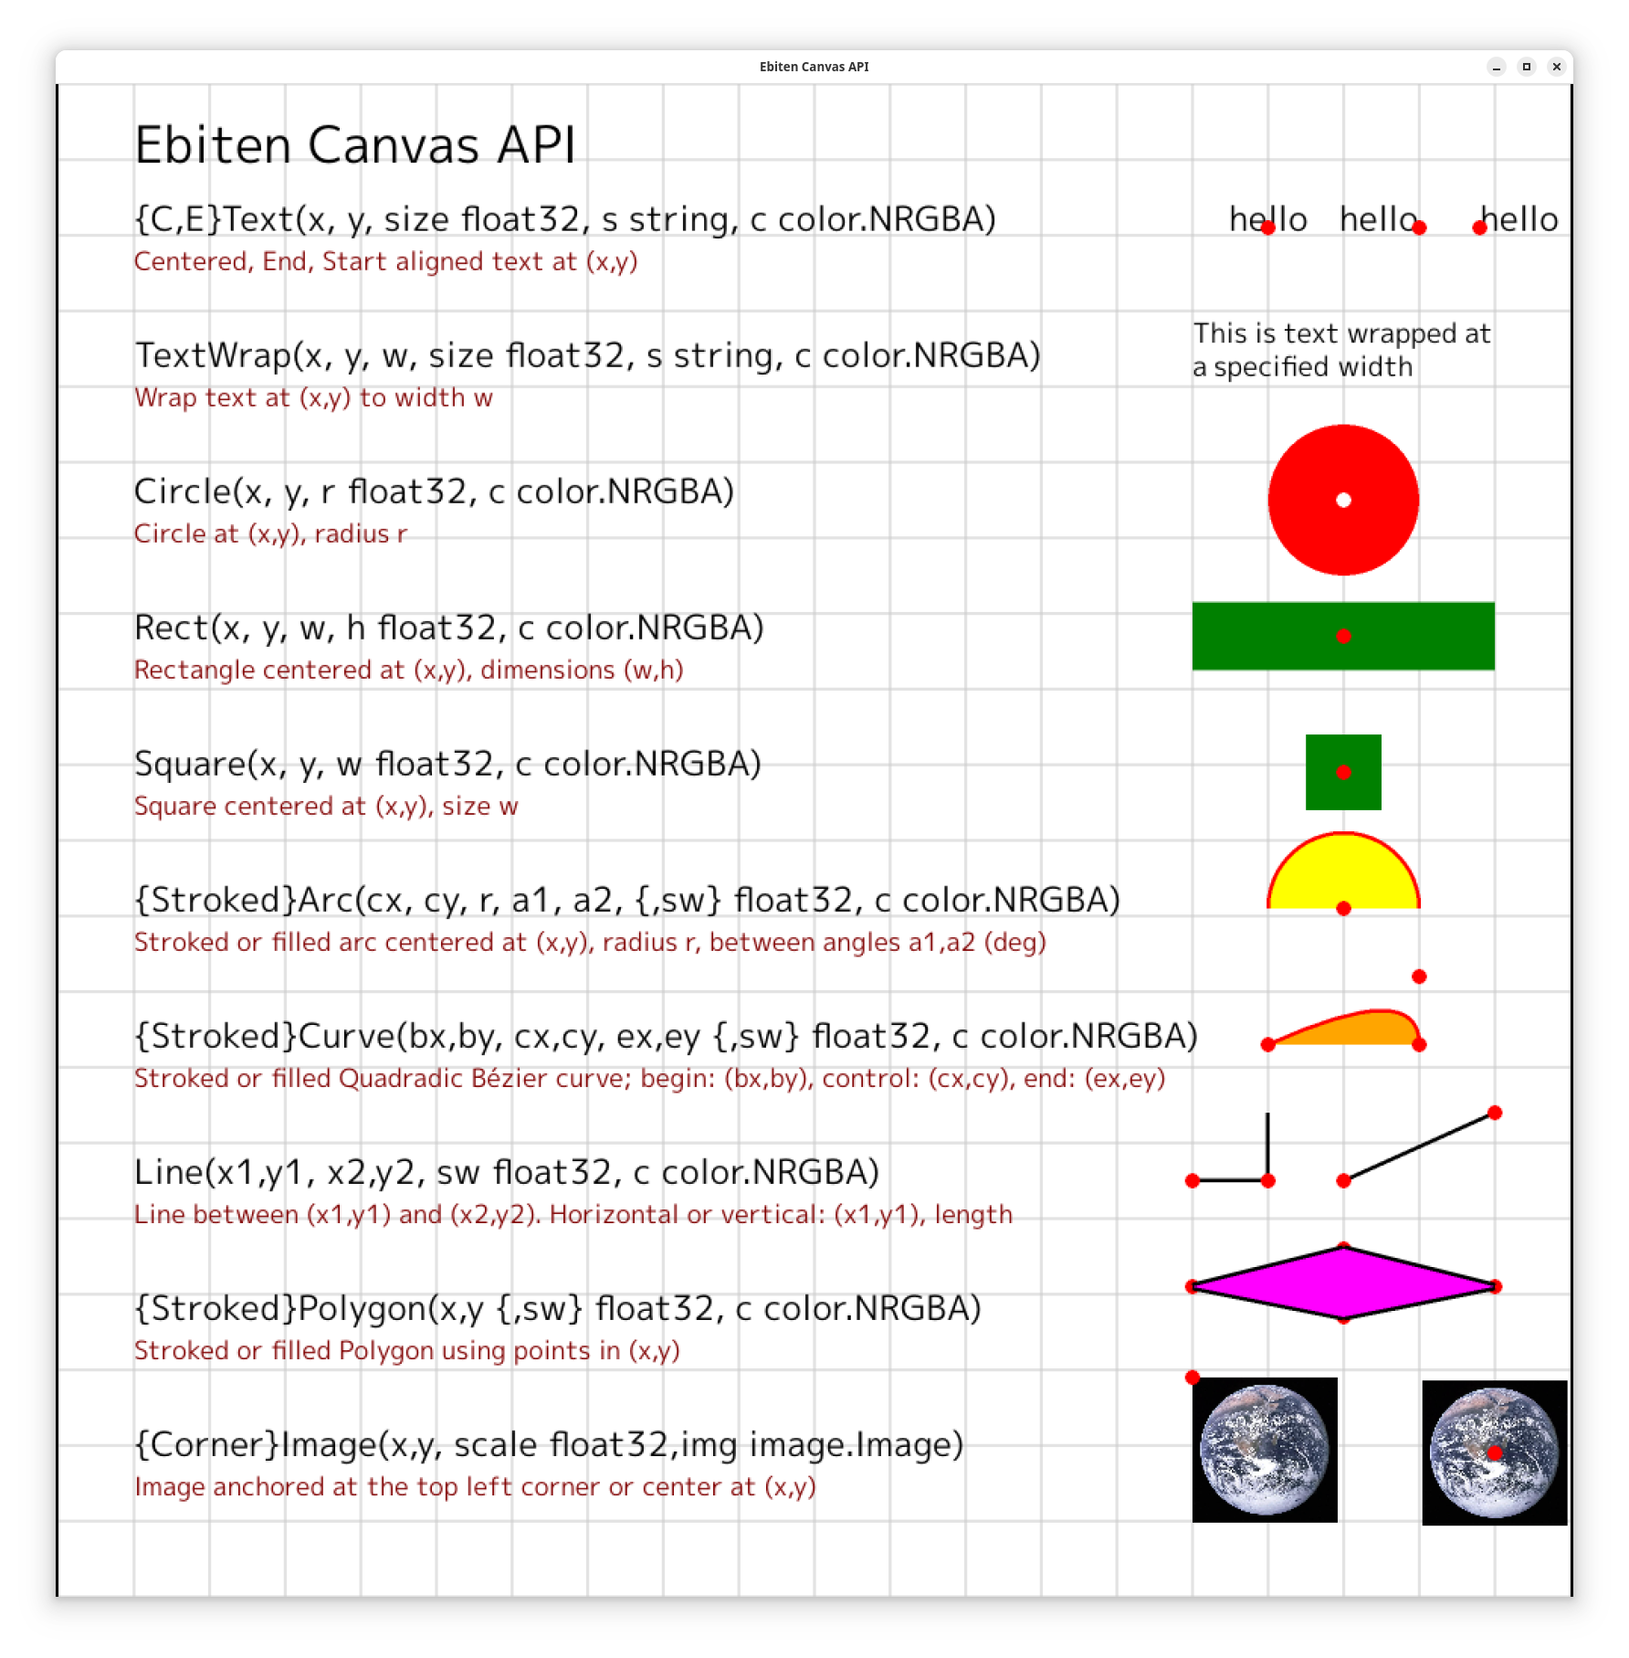
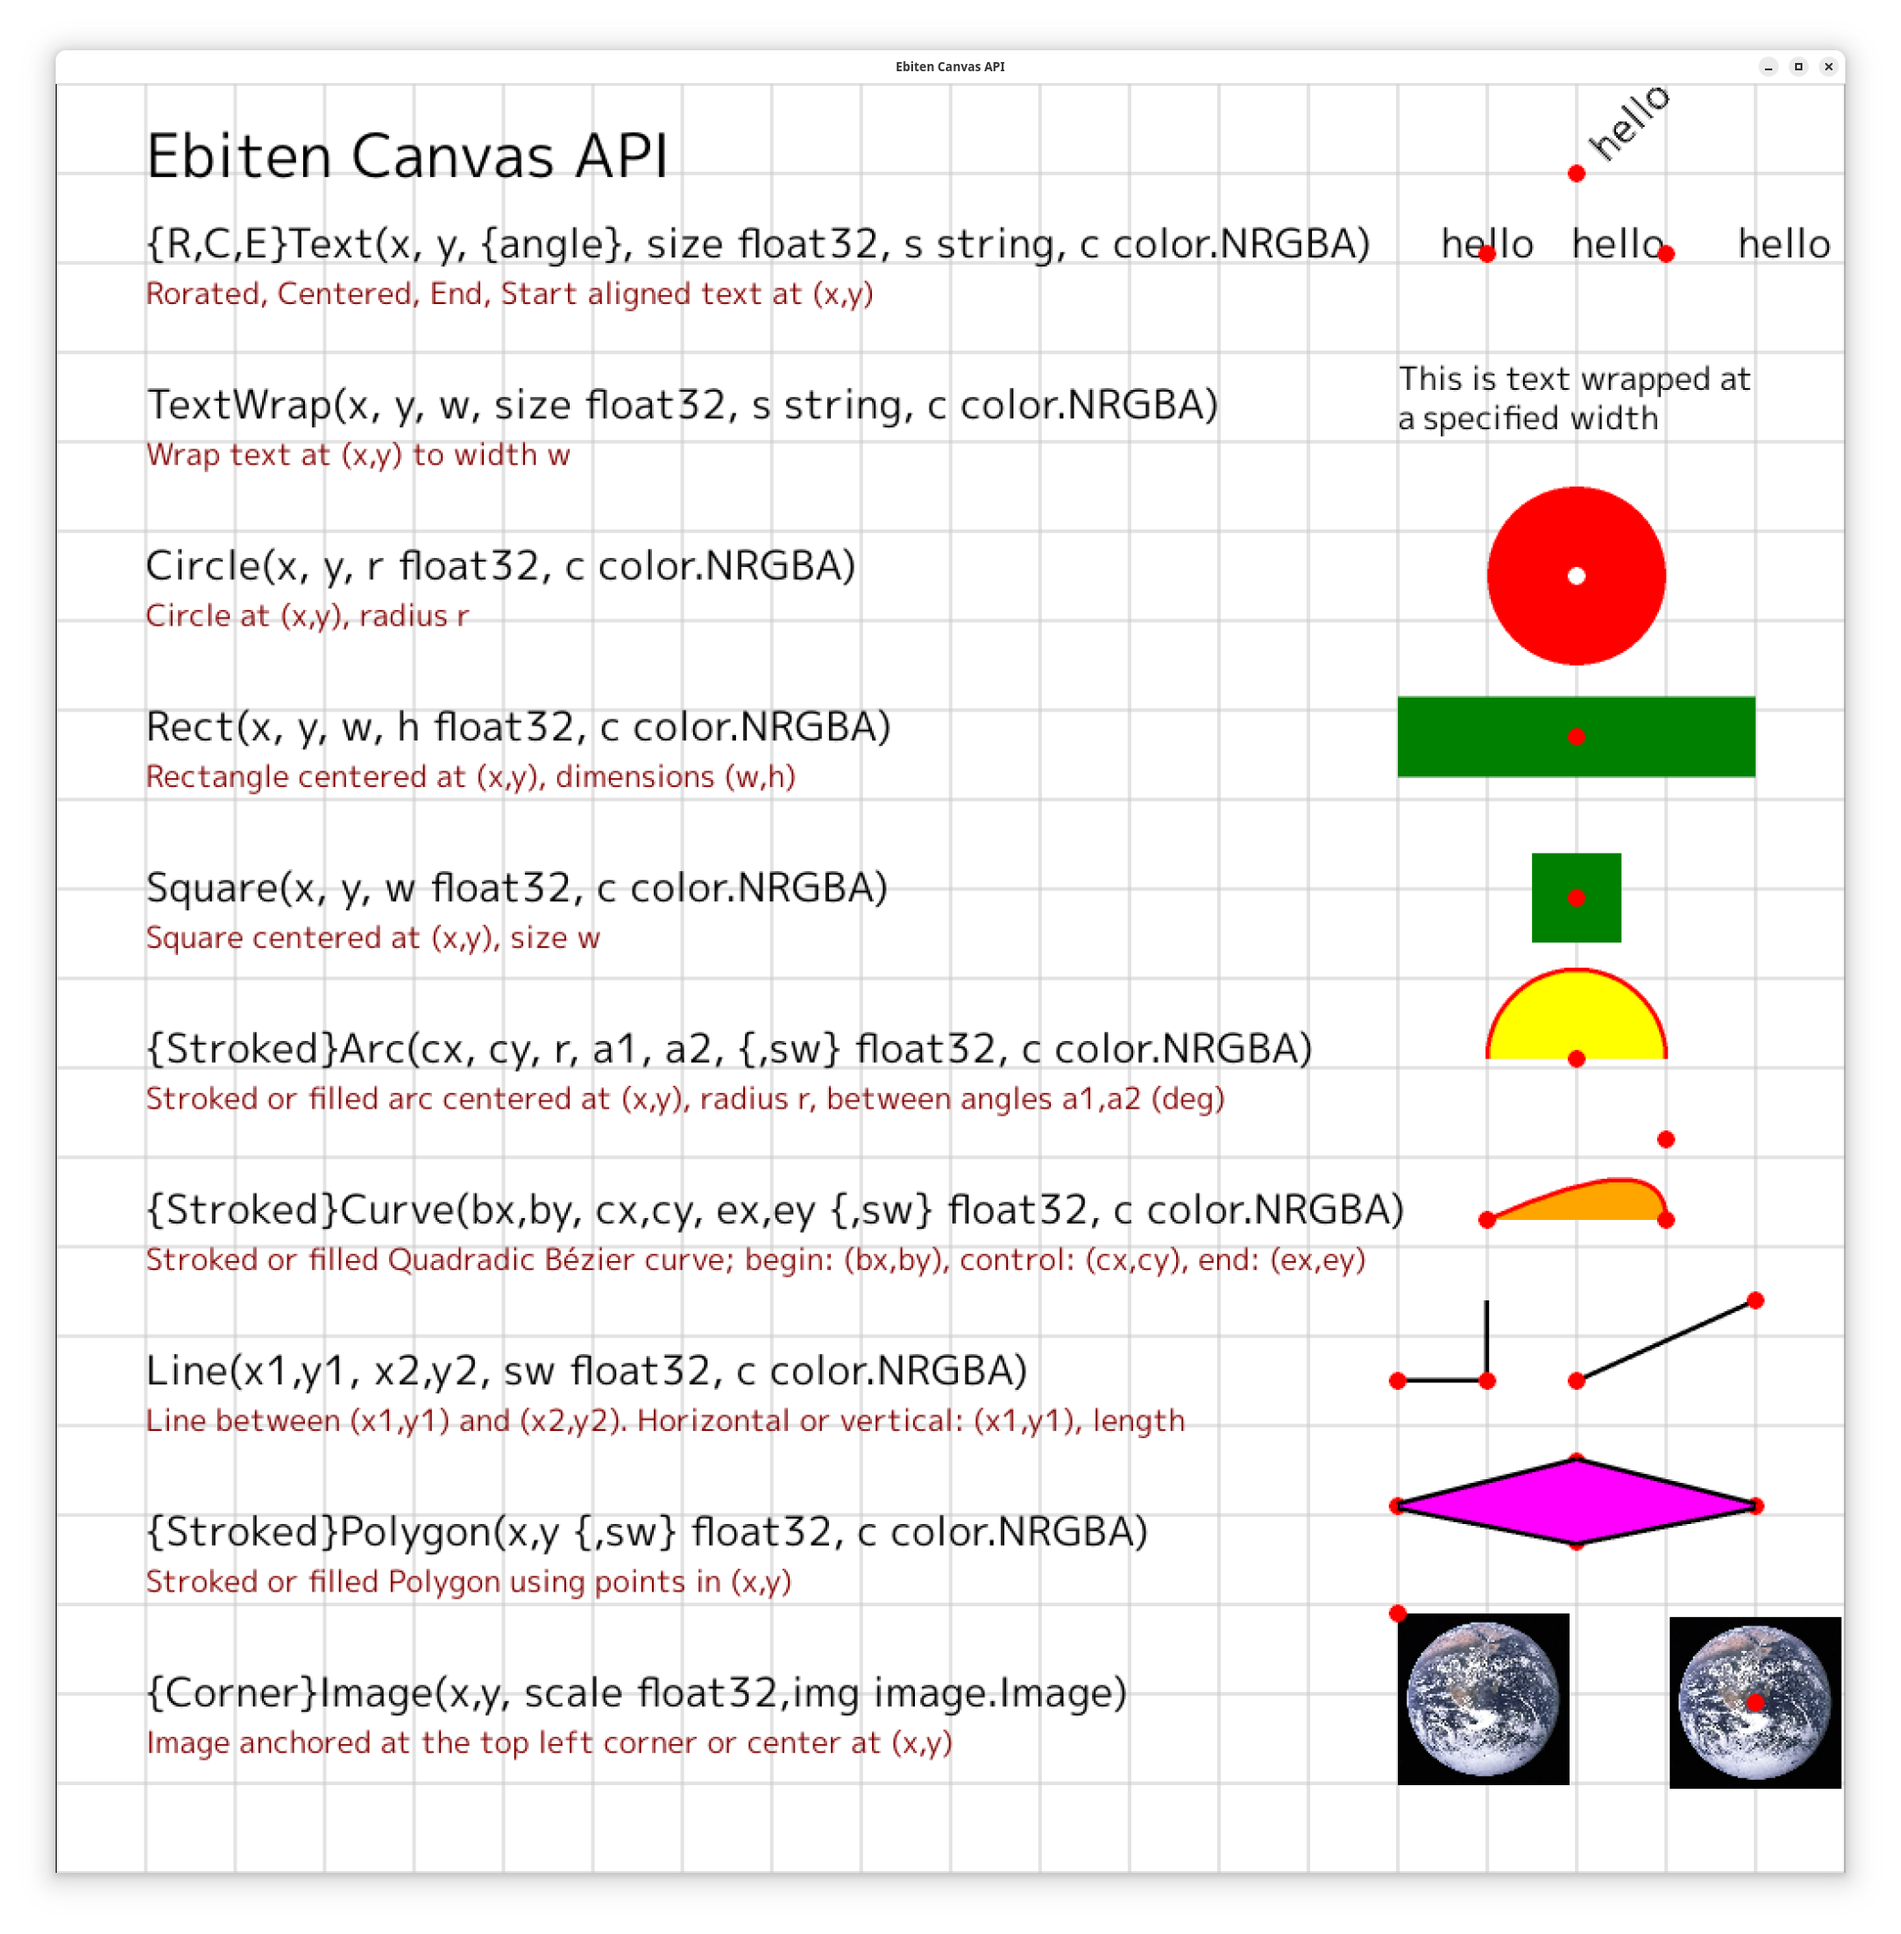
add RText

Changed region(s): [[0.0308, 0.0309, 0.9865, 0.9873], [0.5241, 0.4937, 0.7091, 0.5862], [0.4624, 0.0309, 0.5549, 0.0617]]

diff --git a/ebcanvas.go b/ebcanvas.go
@@ -14,7 +14,10 @@ import (
 	"github.com/hajimehoshi/ebiten/v2/vector"
 )
 
-const Pi = 3.14159265358979323846264338327950288419716939937510582097494459
+const (
+	Pi    = 3.14159265358979323846264338327950288419716939937510582097494459
+	twoPi = 2 * Pi
+)
 
 type Canvas struct {
 	Width, Height int
@@ -99,11 +102,11 @@ func etext(screen *ebiten.Image, x, y float64, size float64, s string, textcolor
 }
 
 // rtext draws rotated text (angle theta (radians)), starting at (x,y)
-func rtext(screen *ebiten.Image, x, y float64, size, theta float64, s string, textcolor color.NRGBA) {
+func rtext(screen *ebiten.Image, x, y, theta, size float64, s string, textcolor color.NRGBA) {
 	ff := &text.GoTextFace{Source: mplusFaceSource, Size: size}
 	op := &text.DrawOptions{}
-	op.GeoM.Translate(x, y-size)
 	op.GeoM.Rotate(theta)
+	op.GeoM.Translate(x, y-size)
 	op.ColorScale.ScaleWithColor(textcolor)
 	text.Draw(screen, s, ff, op)
 }
@@ -113,11 +116,11 @@ func whitespace(r rune) bool {
 	return r == ' ' || r == '\n' || r == '\t'
 }
 
-func textwrap(screen *ebiten.Image, x, y, w, size float64, s string, color color.NRGBA) {
+// textwrap wraps text to the specified margin, starting at (x,y)
+func textwrap(screen *ebiten.Image, x, y, w, linespacing, size float64, s string, color color.NRGBA) {
 	const factor = 0.3
-	leading := size * 1.2
 	ff := &text.GoTextFace{Source: mplusFaceSource, Size: size}
-	wordspacing := text.Advance("M", ff)
+	wordspacing := text.Advance("M", ff) * factor
 	xp := x
 	yp := y
 	edge := x + w
@@ -125,10 +128,10 @@ func textwrap(screen *ebiten.Image, x, y, w, size float64, s string, color color
 	for _, s := range words {
 		tw := text.Advance(s, ff)
 		btext(screen, xp, yp, size, s, color)
-		xp += tw + (wordspacing * factor)
+		xp += tw + wordspacing
 		if xp >= edge {
 			xp = x
-			yp += leading
+			yp += linespacing
 		}
 	}
 }
@@ -453,6 +456,15 @@ func (c *Canvas) CText(x, y, size float32, s string, textcolor color.NRGBA) {
 	ctext(c.Screen, float64(cx), float64(cy), float64(size), s, textcolor)
 }
 
+// RText draws rotated text at (x,y), rotated at the specified angle
+func (c *Canvas) RText(x, y, angle, size float32, s string, textcolor color.NRGBA) {
+	cw, ch := float32(c.Width), float32(c.Height)
+	cx, cy := dimen(x, y, cw, ch)
+	size = pct(size, cw)
+	theta := degreesToRadians(angle)
+	rtext(c.Screen, float64(cx), float64(cy), float64(theta), float64(size), s, textcolor)
+}
+
 // TextMid is an alternative name for CText
 func (c *Canvas) TextMid(x, y, size float32, s string, textcolor color.NRGBA) {
 	c.CText(x, y, size, s, textcolor)
@@ -472,21 +484,14 @@ func (c *Canvas) TextEnd(x, y, size float32, s string, textcolor color.NRGBA) {
 	c.EText(x, y, size, s, textcolor)
 }
 
-// RText draws rotated text at (x,y), rotated at the specified angle
-func (c *Canvas) RText(x, y, angle, size float32, s string, textcolor color.NRGBA) {
-	cw, ch := float32(c.Width), float32(c.Height)
-	cx, cy := dimen(x, y, cw, ch)
-	size = pct(size, cw)
-	theta := float64(angle) * (Pi / 180)
-	rtext(c.Screen, float64(cx), float64(cy), theta, float64(size), s, textcolor)
-}
-
 func (c *Canvas) TextWrap(x, y, w, size float32, s string, textcolor color.NRGBA) {
+	const lsf = 1.2
 	cw, ch := float32(c.Width), float32(c.Height)
 	cx, cy := dimen(x, y, cw, ch)
 	size = pct(size, cw)
 	w = pct(w, cw)
-	textwrap(c.Screen, float64(cx), float64(cy), float64(w), float64(size), s, textcolor)
+	ls := float64(size * lsf)
+	textwrap(c.Screen, float64(cx), float64(cy), float64(w), ls, float64(size), s, textcolor)
 }
 
 // Utility Methods

diff --git a/arc/main.go b/arc/main.go
@@ -2,6 +2,7 @@ package main
 
 import (
 	"fmt"
+	"image"
 	"image/color"
 	"os"
 
@@ -23,8 +24,21 @@ func (g *App) Draw(screen *ebiten.Image) {
 	work(screen)
 }
 
+func loadAssets() error {
+	r, err := os.Open("douglass.jpg")
+	if err != nil {
+		return err
+	}
+	douglass, _, err = image.Decode(r)
+	if err != nil {
+		return err
+	}
+	return nil
+}
+
 var screenWidth = 1000
 var screenHeight = 1000
+var douglass image.Image
 
 func work(screen *ebiten.Image) {
 	canvas := new(ebcanvas.Canvas)
@@ -37,10 +51,11 @@ func work(screen *ebiten.Image) {
 		cy        float32
 		r         float32
 		deg       float32
-		fillcolor = color.NRGBA{0, 0, 128, 255}
-		dotcolor  = color.NRGBA{128, 0, 0, 255}
-		txcolor   = fillcolor
-		bgcolor   = color.NRGBA{255, 255, 255, 255}
+		ts        float32 = 1.5
+		fillcolor         = color.NRGBA{0, 0, 128, 255}
+		dotcolor          = color.NRGBA{128, 0, 0, 255}
+		txcolor           = fillcolor
+		bgcolor           = color.NRGBA{255, 255, 255, 255}
 	)
 
 	canvas.Background(bgcolor)
@@ -50,9 +65,9 @@ func work(screen *ebiten.Image) {
 	wcolor := fillcolor
 	wcolor.A = 100
 
-	canvas.CText(50, 90, 3, "Arcs and Wedges", txcolor)
-	for deg = 0.0; deg < 360.0; deg += 30 {
-		canvas.CText(cx, cy-r*2, 1.5, fmt.Sprintf("%.0f°", deg), txcolor)
+	canvas.CText(50, 90, 3, "Arcs, Wedges, Rotated Text", txcolor)
+	for deg = 0; deg < 360; deg += 30 {
+		canvas.CText(cx, cy-r*2, ts, fmt.Sprintf("%.0f°", deg), txcolor)
 		canvas.Circle(cx, cy, r/10, dotcolor)
 		canvas.StrokedArc(cx, cy, r, 0, deg, 0.25, fillcolor)
 		canvas.Wedge(cx, cy, r, 0, deg, wcolor)
@@ -65,13 +80,22 @@ func work(screen *ebiten.Image) {
 
 	canvas.Wedge(50, 75, 10, 0, 90, dotcolor)
 	canvas.Wedge(50, 75, 10, 180, 270, txcolor)
+
+	for deg = 0; deg < 360; deg += 20 {
+		canvas.RText(50, 20, deg, 2.5, fmt.Sprintf("rotated: %.0f°", deg), txcolor)
+	}
+
 }
 
 func main() {
 	ebiten.SetWindowSize(screenWidth, screenHeight)
-	ebiten.SetScreenClearedEveryFrame(false)
 	ebiten.SetTPS(0)
 	ebiten.SetWindowTitle("arcs")
+
+	if err := loadAssets(); err != nil {
+		fmt.Fprintf(os.Stderr, "%v\n", err)
+		return
+	}
 
 	if err := ebcanvas.LoadFont(); err != nil {
 		fmt.Fprintf(os.Stderr, "%v\n", err)

diff --git a/api/main.go b/api/main.go
@@ -77,7 +77,7 @@ func work(screen *ebiten.Image) {
 
 	// API labels
 	funcnames := []string{
-		"{C,E}Text(x, y, size float32, s string, c color.NRGBA)",
+		"{R,C,E}Text(x, y, {angle}, size float32, s string, c color.NRGBA)",
 		"TextWrap(x, y, w, size float32, s string, c color.NRGBA)",
 		"Circle(x, y, r float32, c color.NRGBA)",
 		"Rect(x, y, w, h float32, c color.NRGBA)",
@@ -89,7 +89,7 @@ func work(screen *ebiten.Image) {
 		"{Corner}Image(x,y, scale float32,img image.Image)",
 	}
 	funcdesc := []string{
-		"Centered, End, Start aligned text at (x,y)",
+		"Rorated, Centered, End, Start aligned text at (x,y)",
 		"Wrap text at (x,y) to width w",
 		"Circle at (x,y), radius r",
 		"Rectangle centered at (x,y), dimensions (w,h)",
@@ -117,7 +117,8 @@ func work(screen *ebiten.Image) {
 	canvas.Circle(labelx, yp, dotsize, red)
 	labelx += hspace * 0.4
 	canvas.Text(labelx, yp, textsize, message, txcolor)
-	canvas.Circle(labelx, yp, dotsize, red)
+	canvas.Circle(objx, yp+halfvs, dotsize, red)
+	canvas.RText(objx, yp+halfvs, 45, textsize, message, txcolor)
 	yp -= vspace
 	canvas.TextWrap(objx-hspace, yp+(halfvs/3), 20, textsize*0.8, wmessage, txcolor)
 

diff --git a/play/main.go b/play/main.go
@@ -74,7 +74,7 @@ func play(screen *ebiten.Image) {
 	var wrap float32 = 15.0
 	titlesize := labelsize * 2
 	subsize := labelsize * 0.7
-	wrapfmt := `This is text wrapped at a specified width (%1.f%% of the canvas width).`
+	wrapfmt := "This is text wrapped at a specified width (%1.f%% of the canvas width)."
 	apimsg := "A canvas API for ebiten, using high-level objects, and a percentage-based coordinate system. (https://github.com/ebcanvas)"
 
 	// Title
@@ -117,7 +117,8 @@ func play(screen *ebiten.Image) {
 	canvas.Circle(tx, 15, subsize/4, labelcolor)
 	canvas.TextWrap(tx, 10, wrap, subsize, fmt.Sprintf(wrapfmt, wrap), labelcolor)
 	canvas.Circle(tx, 10, subsize/4, labelcolor)
-
+	canvas.RText(cx1, 5, 45, subsize, "Rotated", labelcolor)
+	canvas.Circle(cx1, 5, subsize/4, labelcolor)
 	// Quadradic Bezier
 	start := Point{X: 45, Y: 65}
 	c1 := Point{X: 70, Y: 85}
